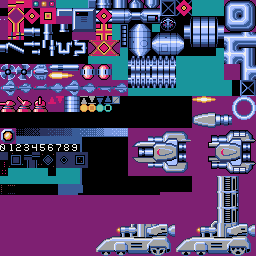
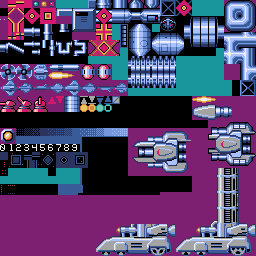
ボス１調整 ボス３調整サイズ変更など

Changed region(s): [[0.75, 0.375, 1.0, 0.6875]]

diff --git a/source/boss3.py b/source/boss3.py
@@ -38,11 +38,11 @@ class Boss3Anchor:
 #  10 最初に戻る
 class Boss3(enemy.EnemyBase):
 	#shotCycles = (32, 24, 15)
-	shotCycles = (40, 30, 20)
+	shotCycles = (44, 35, 28)
 	def __init__(self, t):
 		super(Boss3, self).__init__()
 		self.x = 256
-		self.y = 16
+		self.y = 8
 		self.left = 16
 		self.top = 9
 		self.right = 63
@@ -56,11 +56,14 @@ class Boss3(enemy.EnemyBase):
 		self.body = Boss3Body()
 		self.body.y = 72
 		self.anchor = Boss3Anchor()
-		self.upperARect = gcommon.Rect.create(8, 0, 72, 15)
-		self.upperBRect = gcommon.Rect.create(24, 16, 71, 29)
-		self.shaftRect = gcommon.Rect.create(40, 30, 62, 129)
-		self.lowerBRect = gcommon.Rect.create(24, 130, 71, 143)
-		self.lowerARect = gcommon.Rect.create(8, 144, 72, 159)
+		# self.upperARect = gcommon.Rect.create(8, 0, 72, 15)
+		# self.upperBRect = gcommon.Rect.create(24, 16, 71, 29)
+		# self.shaftRect = gcommon.Rect.create(40, 30, 62, 129)
+		# self.lowerBRect = gcommon.Rect.create(24, 130, 71, 143)
+		# self.lowerARect = gcommon.Rect.create(8, 144, 72, 159)
+		self.collisionRects = gcommon.Rect.createFromList([
+			[8, 0, 72, 15], [24, 16, 71, 29], [40, 30, 62, 129+16], [24, 130+16, 71, 143+16], [8, 144+16, 72, 159+16]
+		])
 		self.mode = 0
 		self.modeCnt = 0
 		self.body_min_y = 16
@@ -129,14 +132,14 @@ class Boss3(enemy.EnemyBase):
 				ObjMgr.addObj(Boss3Shot(self.x, self.body.y+12, 4))
 				ObjMgr.addObj(Boss3Shot(self.x, self.body.y+37, 4))
 				BGM.sound(gcommon.SOUND_SHOT3)
-			if self.cnt % int(self.shotCycle) == 0 and self.cycleCount & 1 == 1:
+			#if self.cnt % int(self.shotCycle*2) == 0 and self.cycleCount & 1 == 1:
 				#enemy.enemy_shot_offset(self.x, self.body.y+23, 2, 0, -4)
 				#enemy.enemy_shot_offset(self.x, self.body.y+23, 2, 0, 4)
-				#nemy.enemy_shot_multi(self.x+20, self.y+27, 2, 0, 3, 5)
+				#enemy.enemy_shot_multi(self.x+20, self.y+27, 2, 0, 3, 5)
 				#enemy.enemy_shot_multi(self.x+20, self.y+160-27, 2, 0, 3, 5)
-				gcommon.debugPrint("Shot Dish??")
-				self.shotDish(-1)
-				self.shotDish(1)
+				#gcommon.debugPrint("Shot 2??")
+				#self.shotDish(-1)
+				#self.shotDish(1)
 			self.setBodyAnchorPos()
 		elif self.state == 4:
 			cy = gcommon.getCenterY(ObjMgr.myShip)
@@ -199,13 +202,14 @@ class Boss3(enemy.EnemyBase):
 				ObjMgr.addObj(Boss3Shot(self.x, self.body.y+12, 4))
 				ObjMgr.addObj(Boss3Shot(self.x, self.body.y+37, 4))
 				BGM.sound(gcommon.SOUND_SHOT2)
-			if self.cnt % (self.shotCycle) == 0 and self.cycleCount & 1 == 1:
+			#if self.cnt % int(self.shotCycle*2) == 0 and self.cycleCount & 1 == 1:
 				#enemy.enemy_shot_self.x, self.body.y+23, 2, 0, -4)
 				#enemy.enemy_shot_offset(self.x, self.body.y+23, 2, 0, 4)
 				#enemy.enemy_shot_multi(self.x+20, self.y+27, 2, 0, 3, 5)
 				#enemy.enemy_shot_multi(self.x+20, self.y+160-27, 2, 0, 3, 5)
-				self.shotDish(-1)
-				self.shotDish(1)
+				#gcommon.debugPrint("Shot 2??")
+				#self.shotDish(-1)
+				#self.shotDish(1)
 			self.setBodyAnchorPos()
 		elif self.state == 8:
 			# 中心に移動
@@ -247,19 +251,19 @@ class Boss3(enemy.EnemyBase):
 			xoffset = -80
 		# 上半分
 		pyxel.blt(self.x, self.y, 1, 176 +xoffset, 224, 80, -32, gcommon.TP_COLOR)
-		pyxel.blt(self.x+32, self.y+32, 1, 208, 176, 32, -48, gcommon.TP_COLOR)
+		pyxel.blt(self.x+32, self.y+32, 1, 208, 168, 32, -56, gcommon.TP_COLOR)
 		# 下半分
-		pyxel.blt(self.x+32, self.y+80, 1, 208, 176, 32, 48, gcommon.TP_COLOR)
-		pyxel.blt(self.x, self.y+128, 1, 176 +xoffset, 224, 80, 32, gcommon.TP_COLOR)
+		pyxel.blt(self.x+32, self.y+88, 1, 208, 168, 32, 56, gcommon.TP_COLOR)
+		pyxel.blt(self.x, self.y+144, 1, 176 +xoffset, 224, 80, 32, gcommon.TP_COLOR)
 		# アンカー
-		pyxel.blt(self.anchor.x, self.anchor.y, 1, 192, 112, 24, 16, gcommon.TP_COLOR)
+		pyxel.blt(self.anchor.x, self.anchor.y, 1, 192, 104, 24, 16, gcommon.TP_COLOR)
 		x = self.anchor.x +24
 		while(x < self.body.x +8):
-			pyxel.blt(x, self.anchor.y, 1, 216, 112, 16, 16, gcommon.TP_COLOR)
+			pyxel.blt(x, self.anchor.y, 1, 216, 104, 16, 16, gcommon.TP_COLOR)
 			x += 16
 
 		# 本体
-		pyxel.blt(self.body.x, self.body.y, 1, 208, 128, 48, 48, gcommon.TP_COLOR)
+		pyxel.blt(self.body.x, self.body.y, 1, 208, 120, 48, 48, gcommon.TP_COLOR)
 
 	# 自機弾と敵との当たり判定と破壊処理
 	def checkShotCollision(self, shot):
@@ -267,13 +271,13 @@ class Boss3(enemy.EnemyBase):
 			return False
 		return gcommon.check_collision(self.body, shot)
 	
-	def shotDish(self, dy):
-		x = self.x+20
-		if dy > 0:
-			y = self.y+27
-		else:
-			y = self.y+160-27
-		ObjMgr.addObj(Boss3Dish(x, y, -2, dy * 2))
+	# def shotDish(self, dy):
+	# 	x = self.x+20
+	# 	if dy > 0:
+	# 		y = self.y+27
+	# 	else:
+	# 		y = self.y+160-27
+	# 	ObjMgr.addObj(Boss3Dish(x, y, -2, dy * 2))
 
 	# def doShotCollision(self, shot):
 	# 	rad = math.atan2(shot.dy, shot.dx)
@@ -292,17 +296,7 @@ class Boss3(enemy.EnemyBase):
 			return True
 		if gcommon.check_collision(self.anchor, ObjMgr.myShip):
 			return True
-		if gcommon.check_collision2(self.x, self.y, self.upperARect, ObjMgr.myShip):
-			return True
-		if gcommon.check_collision2(self.x, self.y, self.upperBRect, ObjMgr.myShip):
-			return True
-		if gcommon.check_collision2(self.x, self.y, self.shaftRect, ObjMgr.myShip):
-			return True
-		if gcommon.check_collision2(self.x, self.y, self.lowerBRect, ObjMgr.myShip):
-			return True
-		if gcommon.check_collision2(self.x, self.y, self.lowerARect, ObjMgr.myShip):
-			return True
-		return False
+		return gcommon.check_collision_list(self.x, self.y, self.collisionRects, ObjMgr.myShip)
 
 	def broken(self):
 		self.remove()
@@ -339,36 +333,36 @@ class Boss3Shot(enemy.EnemyBase):
 		# pyxel.rect(self.x+ self.left, self.y+self.top, self.right-self.left+1, self.bottom-self.top+1, 8)
 		pyxel.blt(self.x, self.y, 1, 192, 96, 24, 8, gcommon.TP_COLOR)
 
+# 作ったけど、使わない
+# class Boss3Dish(enemy.EnemyBase):
+# 	# x,y 弾の中心を指定
+# 	# dr  0 -63
+# 	def __init__(self, x, y, dx, dy):
+# 		super(__class__, self).__init__()
+# 		self.shotHitCheck = False
+# 		self.x = x
+# 		self.y = y
+# 		self.dx = dx
+# 		self.dy = dy
+# 		self.layer = gcommon.C_LAYER_E_SHOT
+# 		self.hp = 30
+# 		self.shotHitCheck = True
+# 		self.left = -11.5
+# 		self.top = -11.5
+# 		self.right = 11.5
+# 		self.bottom = 11.5
 
-class Boss3Dish(enemy.EnemyBase):
-	# x,y 弾の中心を指定
-	# dr  0 -63
-	def __init__(self, x, y, dx, dy):
-		super(__class__, self).__init__()
-		self.shotHitCheck = False
-		self.x = x
-		self.y = y
-		self.dx = dx
-		self.dy = dy
-		self.layer = gcommon.C_LAYER_E_SHOT
-		self.hp = 30
-		self.shotHitCheck = True
-		self.left = -11.5
-		self.top = -11.5
-		self.right = 11.5
-		self.bottom = 11.5
+# 	def update(self):
+# 		self.x += self.dx
+# 		self.y += self.dy
+# 		if self.x <=-24:
+# 			self.removeFlag = True
+# 			return
+# 		if self.dy < 0 and self.y < (gcommon.SCREEN_MIN_Y +28):
+# 			self.dy = -self.dy
+# 		elif self.dy > 0 and self.y > (gcommon.SCREEN_MAX_Y -28):
+# 			self.dy = -self.dy
 
-	def update(self):
-		self.x += self.dx
-		self.y += self.dy
-		if self.x <=-24:
-			self.removeFlag = True
-			return
-		if self.dy < 0 and self.y < (gcommon.SCREEN_MIN_Y +28):
-			self.dy = -self.dy
-		elif self.dy > 0 and self.y > (gcommon.SCREEN_MAX_Y -28):
-			self.dy = -self.dy
-
-	def draw(self):
-		pyxel.blt(self.x -11.5, self.y -11.5, 1, 232, 96, 24, 24, gcommon.TP_COLOR)
+# 	def draw(self):
+# 		pyxel.blt(self.x -11.5, self.y -11.5, 1, 232, 96, 24, 24, gcommon.TP_COLOR)
 

diff --git a/source/boss1.py b/source/boss1.py
@@ -77,6 +77,7 @@ class Boss1(enemy.EnemyBase):
 			if self.cnt > 260:
 				self.nextState()
 		elif self.state == 1:
+			# 指定位置まで移動
 			self.x -= gcommon.cur_scroll_x
 			self.x += 0.625
 			self.y -= 0.20		#0.125
@@ -85,6 +86,7 @@ class Boss1(enemy.EnemyBase):
 			if self.cnt > 270:
 				self.nextState()
 		elif self.state == 2:
+			# 指定位置まで移動
 			self.y += 0.25
 			if self.cnt % 60 == 0:
 				self.shotFix4()
@@ -162,6 +164,8 @@ class Boss1(enemy.EnemyBase):
 			if self.y +30 > ObjMgr.myShip.y:
 				dy = -dy
 			self.y += dy
+			if self.cnt % 30 == 0:
+				self.shotFix4()
 			if self.cnt > self.beamTime:
 				self.nextState()
 		elif self.state == 8:
